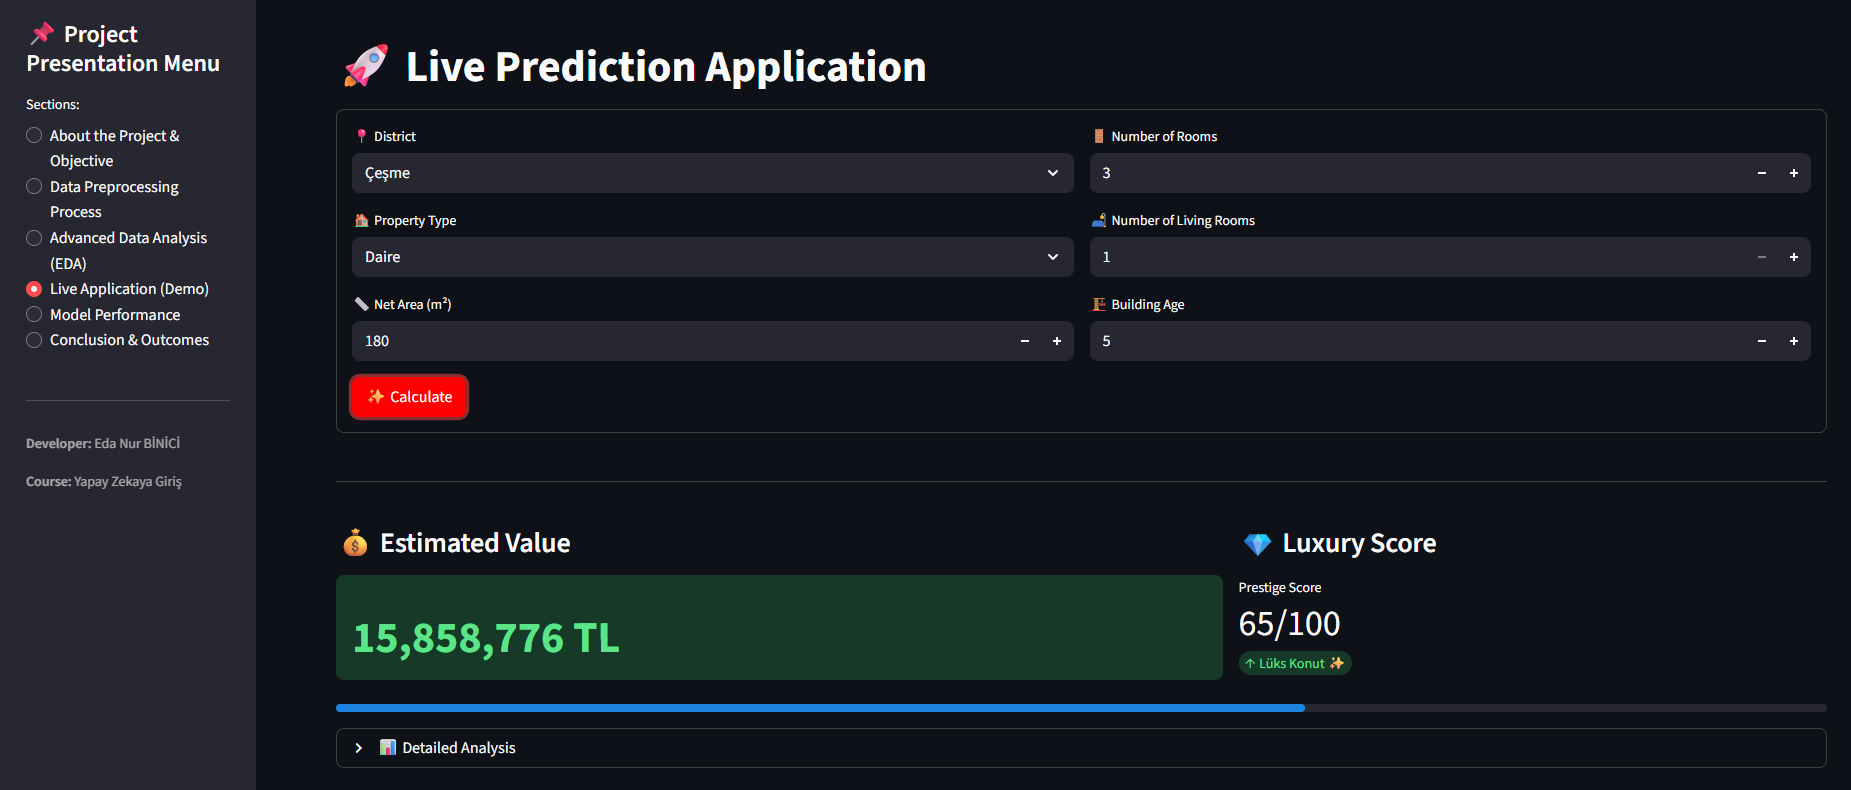
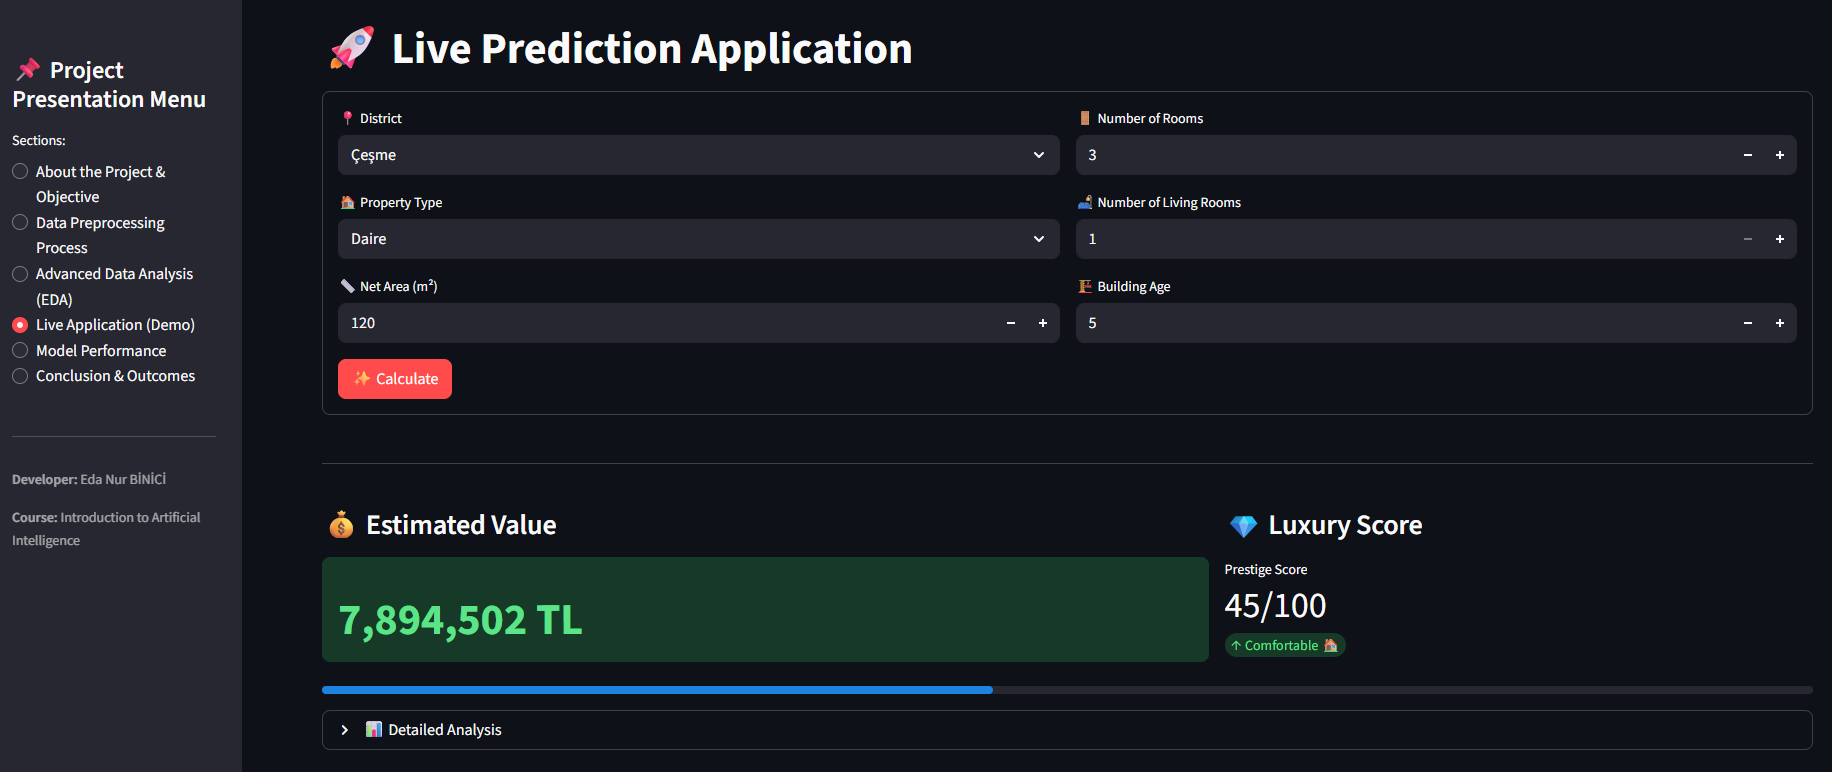
Update code and screenshot

Changed region(s): [[0.0, 0.0, 0.9956, 1.0], [0.1867, 0.9326, 0.28, 0.9637]]

diff --git a/app.py b/app.py
@@ -440,10 +440,10 @@ elif menu == "5. Model Performance":
     c1, c2, c3 = st.columns(3)
     c1.metric("R² Score (Accuracy)", f"{r2_degeri:.3f}", yorum, delta_color=renk)
     c2.metric(
-        "MAE (Error)", f"{int(metrikler.get('MAE (Ortalama Hata)', 0)):,} TL", delta_color="inverse"
+        "MAE (Error)", f"{int(metrikler.get('MAE (Ortalama Hata)', metrikler.get('MAE', 0))):,} TL", delta_color="inverse"
     )
     c3.metric(
-        "RMSE", f"{int(metrikler.get('RMSE (Kök Ortalama Hata)', 0)):,} TL", delta_color="inverse"
+        "RMSE", f"{int(metrikler.get('RMSE (Kök Ortalama Hata)', metrikler.get('RMSE', 0))):,} TL", delta_color="inverse"
     )
 
     st.divider()
@@ -460,26 +460,32 @@ elif menu == "5. Model Performance":
 
     try:
         grafik_verisi = model_loader.onem_duzeyleri.copy()
+        # Use English column names for display (support both Turkish and English saved columns)
+        col_feature = "Özellik" if "Özellik" in grafik_verisi.columns else "Feature"
+        col_importance = "Önem" if "Önem" in grafik_verisi.columns else "Importance"
+        grafik_verisi = grafik_verisi.rename(columns={col_feature: "Feature", col_importance: "Importance"})
 
-        def isim_duzelt(metin: str) -> str:
-            """Corrects feature names"""
-            if "district_" in metin:
-                return metin.replace("district_", "") + " District"
-            elif "left_" in metin:
-                return metin.replace("left_", "") + " (Property Type)"
-            elif metin == "area":
+        def feature_label(metin: str) -> str:
+            """Corrects feature names to English"""
+            if "district_" in str(metin):
+                return str(metin).replace("district_", "") + " District"
+            elif "left_" in str(metin):
+                return str(metin).replace("left_", "") + " (Property Type)"
+            elif metin == "area" or "Metrekare" in str(metin) or "metrekare" in str(metin).lower():
                 return "Area (m²)"
-            elif metin == "age":
+            elif metin == "age" or "Bina Yaşı" in str(metin) or "Yaşı" in str(metin):
                 return "Building Age"
-            elif metin == "toplam_oda":
+            elif metin == "toplam_oda" or "Oda Sayısı" in str(metin):
                 return "Room Count"
-            elif metin == "ilce_skoru":
+            elif metin == "ilce_skoru" or "İlçe Değeri" in str(metin) or "District" in str(metin):
                 return "District Value"
-            return metin
+            if "Çeşme" in str(metin) or "İlçe:" in str(metin):
+                return "District: Cesme"
+            return str(metin)
 
-        if "Özellik" in grafik_verisi.columns:
-            grafik_verisi["Özellik"] = grafik_verisi["Özellik"].apply(isim_duzelt)
-            st.bar_chart(grafik_verisi.set_index("Özellik"))
+        if "Feature" in grafik_verisi.columns:
+            grafik_verisi["Feature"] = grafik_verisi["Feature"].apply(feature_label)
+            st.bar_chart(grafik_verisi.set_index("Feature"))
         else:
             st.write("Feature importance chart is not available.")
     except Exception as e:

diff --git a/src/luxury_score.py b/src/luxury_score.py
@@ -52,32 +52,32 @@ class LuxuryScoreCalculator:
         # Price score
         fiyat_puan = self._calculate_price_score(fiyat)
         puan += fiyat_puan
-        detaylar["fiyat_puan"] = fiyat_puan
+        detaylar["price_score"] = fiyat_puan
 
         # Area score
         m2_puan = self._calculate_area_score(m2)
         puan += m2_puan
-        detaylar["m2_puan"] = m2_puan
+        detaylar["area_score"] = m2_puan
 
         # District score
         ilce_puan = self._calculate_district_score(ilce)
         puan += ilce_puan
-        detaylar["ilce_puan"] = ilce_puan
+        detaylar["district_score"] = ilce_puan
 
         # Property type score
         tip_puan = self._calculate_type_score(tip)
         puan += tip_puan
-        detaylar["tip_puan"] = tip_puan
+        detaylar["property_type_score"] = tip_puan
 
         # Age score
         yas_puan = self._calculate_age_score(yas)
         puan += yas_puan
-        detaylar["yas_puan"] = yas_puan
+        detaylar["building_age_score"] = yas_puan
 
         # Limit score to 0-100 range
         final_skor = min(100, max(0, puan))
 
-        # Determine category
+        # Determine category (English)
         kategori = self._get_category(final_skor)
 
         return {"skor": final_skor, "kategori": kategori, "detaylar": detaylar}

diff --git a/src/train_model.py b/src/train_model.py
@@ -227,17 +227,17 @@ class ModelTrainer:
         metrikler_path = base_path / self.config.get_data_path("metrikler_path")
         joblib.dump(metrikler, metrikler_path)
 
-        # Önem düzeyleri (basit versiyon)
+        # Feature importance (simple version, English labels for UI)
         onemli_ozellikler = pd.DataFrame(
             {
-                "Özellik": [
-                    "Metrekare (m2)",
-                    "İlçe Değeri",
-                    "Bina Yaşı",
-                    "Oda Sayısı",
-                    "İlçe: Çeşme",
+                "Feature": [
+                    "Area (m²)",
+                    "District Value",
+                    "Building Age",
+                    "Room Count",
+                    "District: Cesme",
                 ],
-                "Önem": [0.40, 0.30, 0.15, 0.10, 0.05],
+                "Importance": [0.40, 0.30, 0.15, 0.10, 0.05],
             }
         )
         onem_path = base_path / self.config.get_data_path("onem_duzeyleri_path")

diff --git a/tests/test_luxury_score.py b/tests/test_luxury_score.py
@@ -25,13 +25,13 @@ class TestLuxuryScoreCalculator:
         """Ultra lüks konut testi"""
         result = self.calculator.calculate(fiyat=25000000, m2=400, ilce="Çeşme", tip="Villa", yas=0)
         assert result["skor"] >= 85
-        assert result["kategori"] == "Ultra Lüks ⭐"
+        assert result["kategori"] == "Ultra Luxury ⭐"
 
     def test_standard_property(self):
         """Standart konut testi"""
         result = self.calculator.calculate(fiyat=2000000, m2=100, ilce="Buca", tip="Daire", yas=20)
         assert result["skor"] < 45
-        assert result["kategori"] == "Standart"
+        assert result["kategori"] == "Standard"
 
     def test_score_range(self):
         """Skor aralığı testi"""
